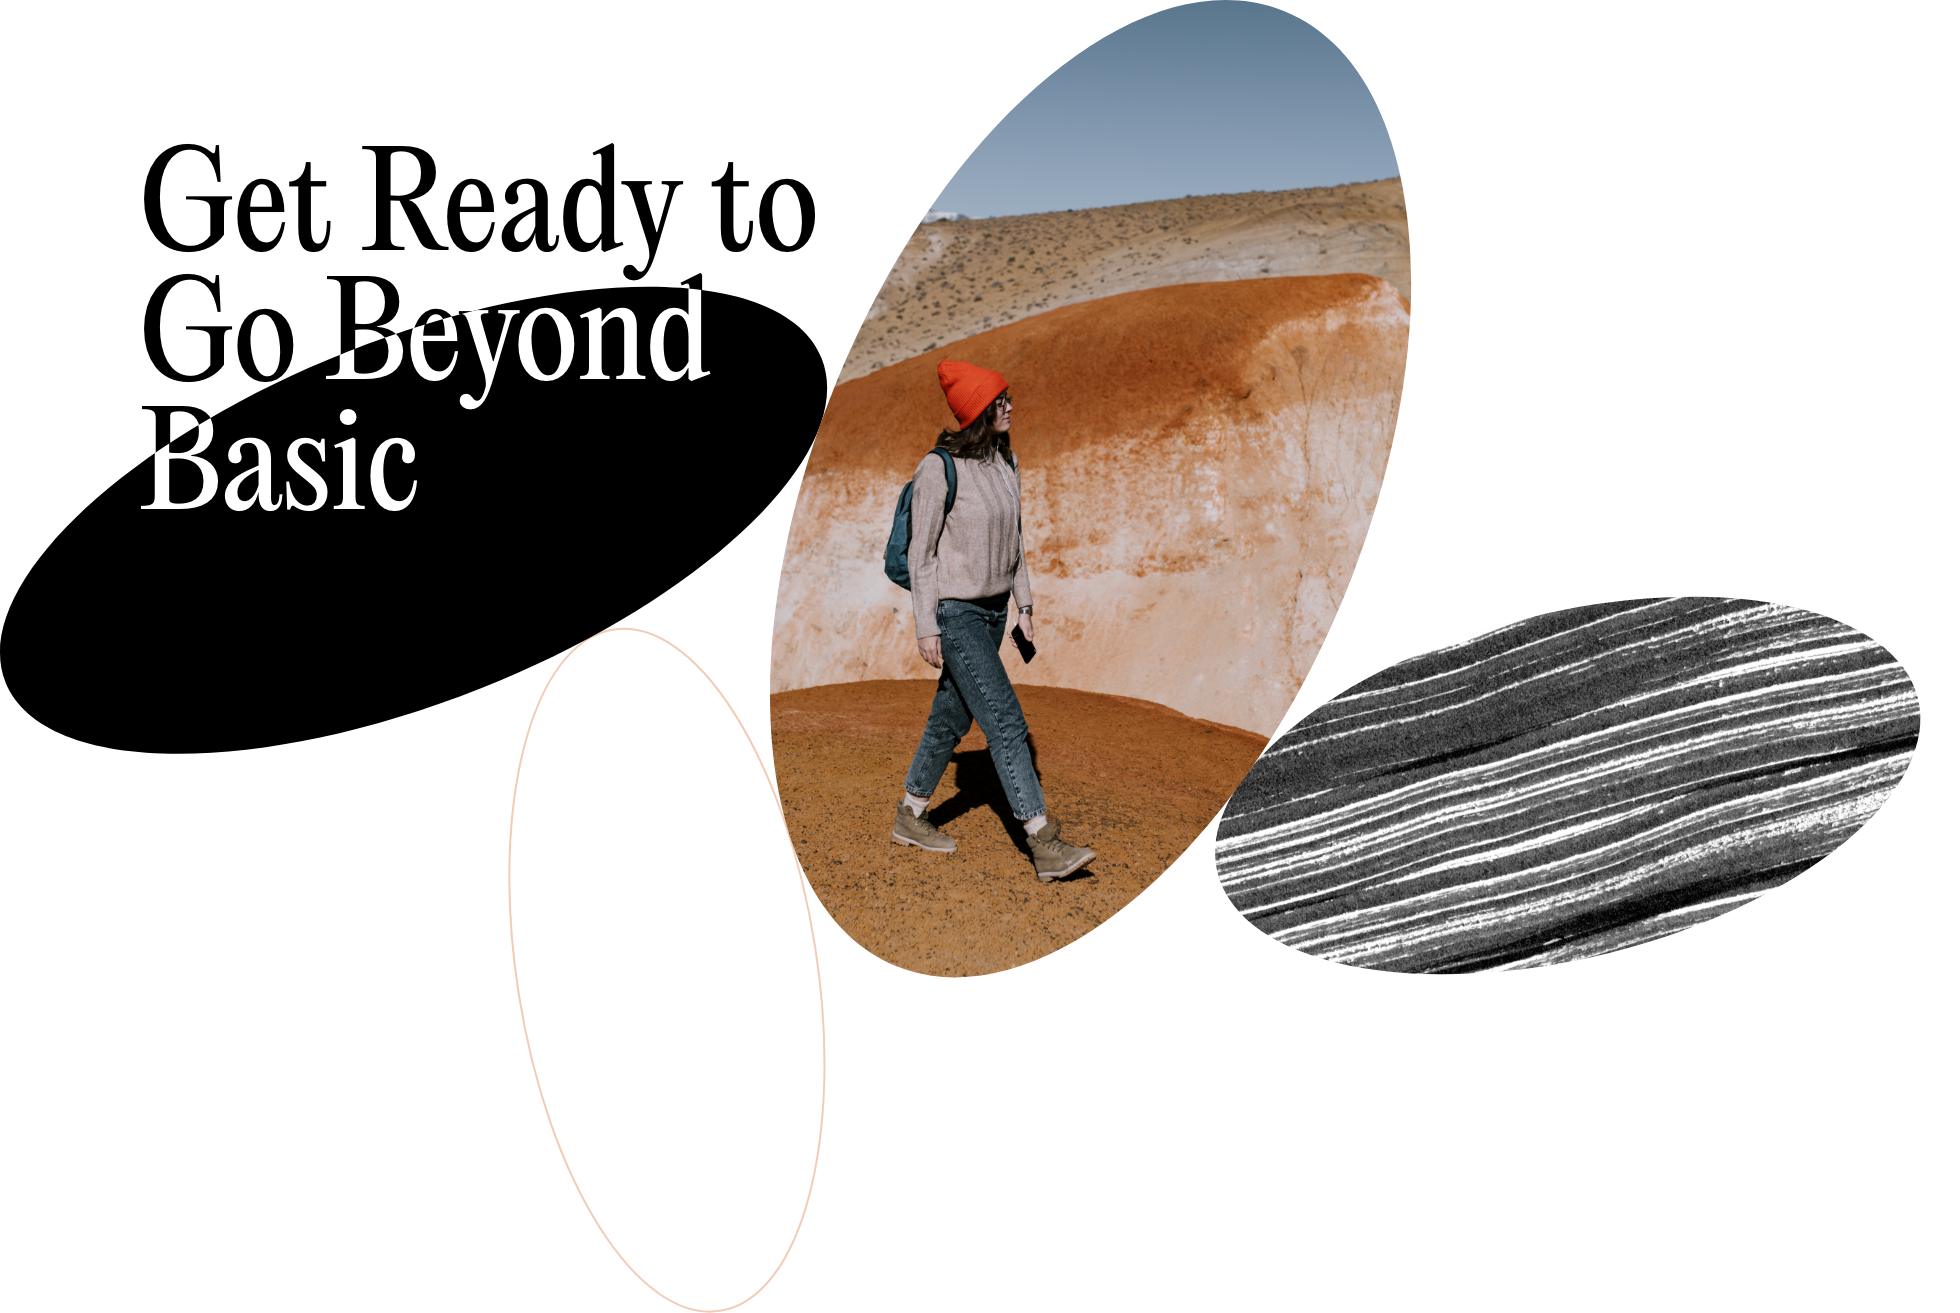
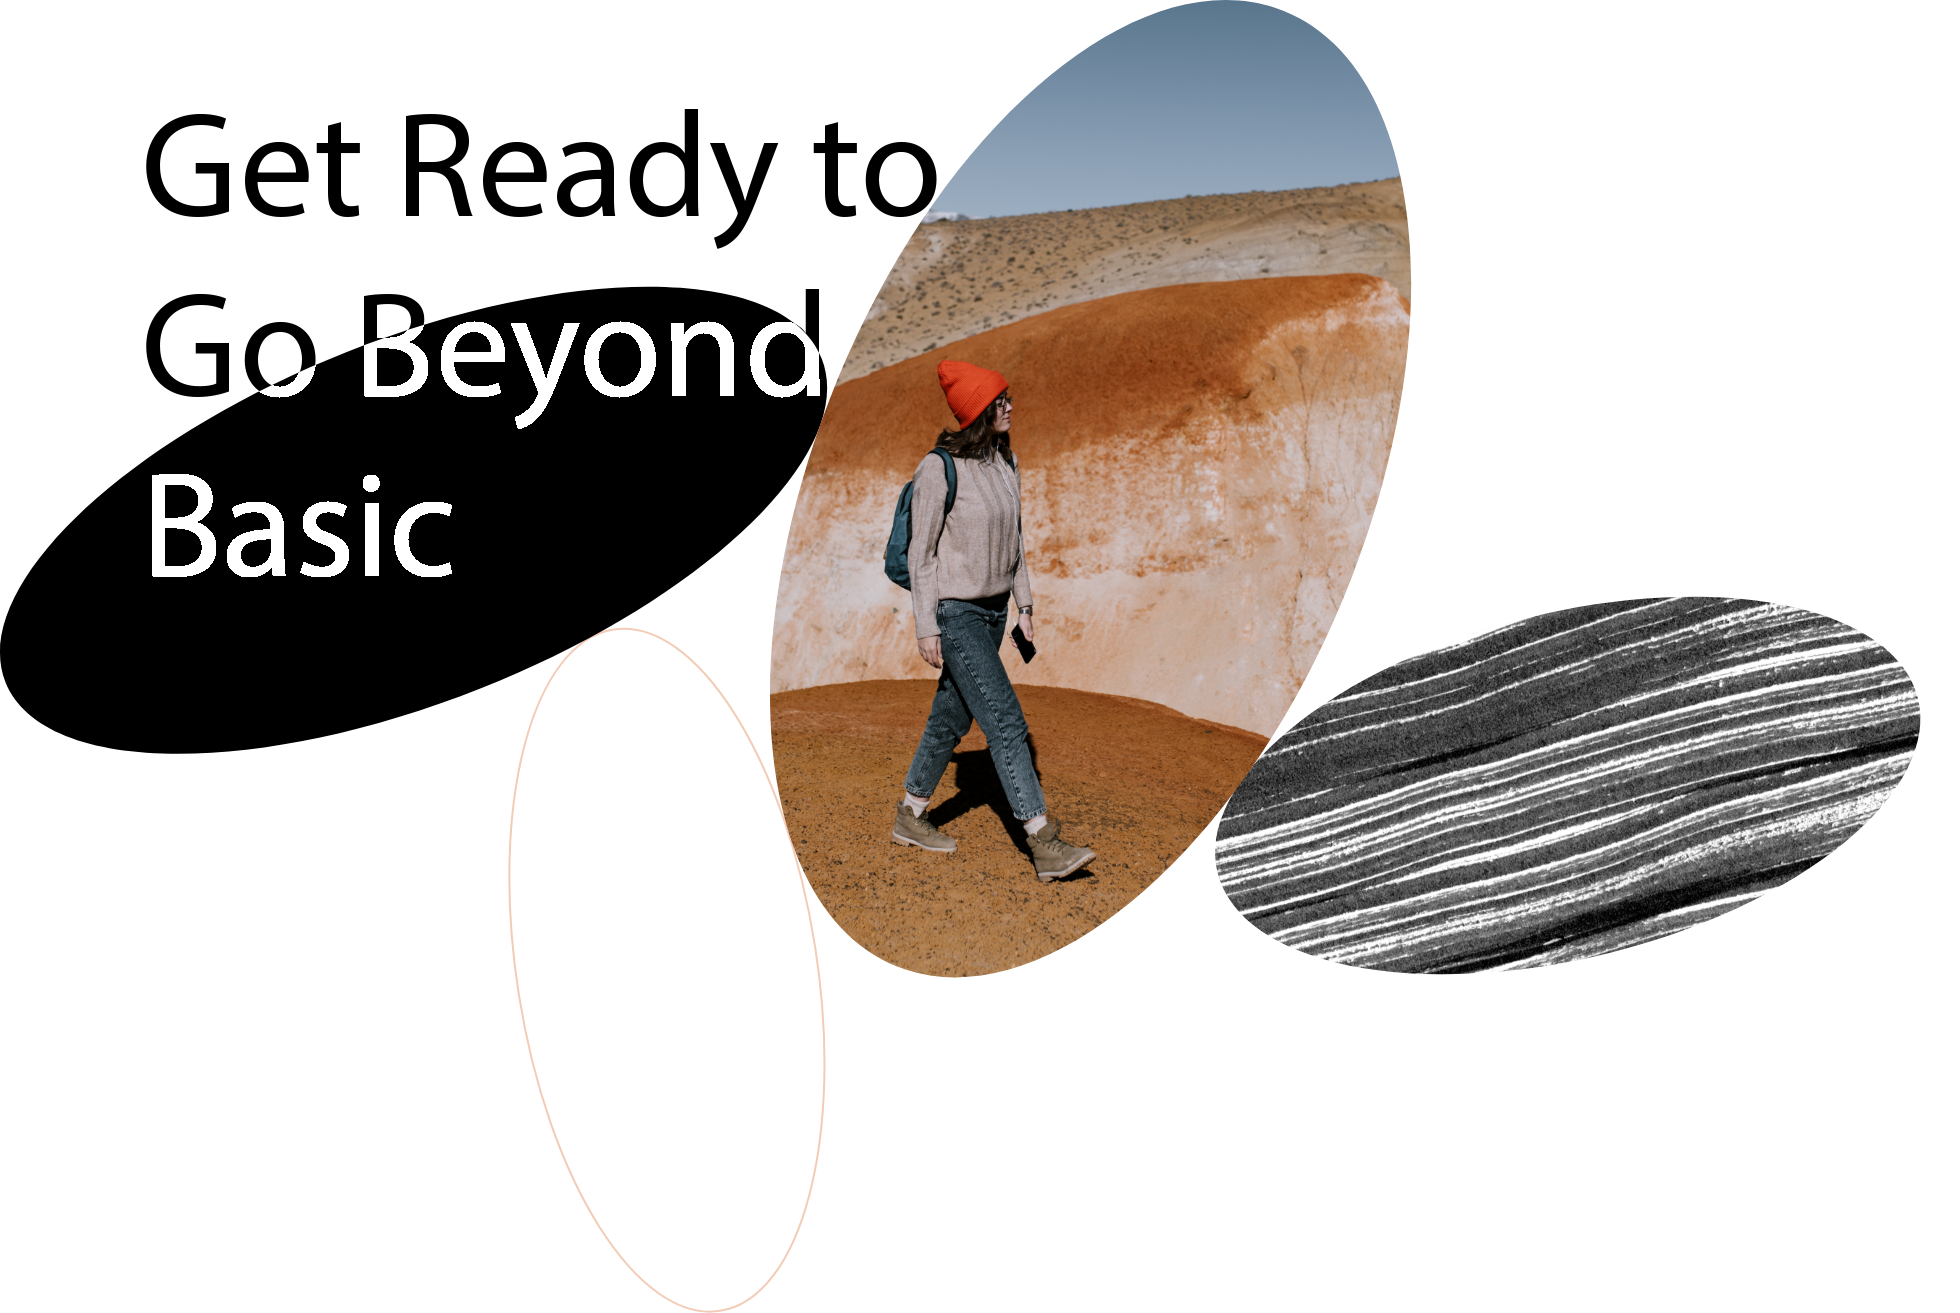
benefit-page

Changed region(s): [[0.0622, 0.0625, 0.498, 0.4372]]

diff --git a/resources/views/pages/benefits.blade.php b/resources/views/pages/benefits.blade.php
@@ -11,27 +11,30 @@ name('benefits');
 <x-layouts.app>
     <section class="">
         <div class="px-[min(6.99vw,50px)] py-8 max-w-[1920px] mx-auto">
-            <div class="relative hidden h-screen lg:flex">
-                <div class="absolute top-[-5rem] h-screen -z-10">
+            <div class="relative hidden lg:flex">
+                <div class="absolute top-[-5rem] -z-10">
                     <img class="" src="{{ getMediaPath('assets/benefits-hero-image.png') }}" />
                 </div>
                 <div class="grid grid-cols-4">
                     <div></div>
                     <div></div>
                     <div></div>
-                    <div class="space-y-6 lg:mt-8 lg:text-xs xl:text-base">
-                        <p class="">
+                    <div class="space-y-6 lg:mt-8 text-base lg:text-base  xl:text-lg">
+                        <p>
                             Real benefits for real people start with Panda. We’re here to help you thrive in ways that matter to you, so you can give more and get more when it’s go time—in life and work.
                         </p>
                         <p>
                             Explore the benefits your employer is providing through Panda People.
                         </p>
-                        <x-link class="hover:bg-panda-green hover:border-transparent" outlined :href="route('dashboard', ['activeTab' => 1])">View My Benefits</x-link>
+                        <x-link class="hover:border-transparent hover:bg-panda-green" outlined :href="route('dashboard', ['activeTab' => 1])">View My Benefits</x-link>
                     </div>
                 </div>
             </div>
             <div class="grid grid-cols-1 gap-6 lg:hidden lg:grid-cols-2" x-data="{ shown: false }" x-intersect.once="shown = true">
-                <h1 x-show="shown" x-transition.duration.1500 class="max-w-xl text-3xl sm:text-6xl font-editorial">Get Ready to go beyond the basic</h1>
+                <h1 x-show="shown" x-transition.duration.1500 class="max-w-xl text-4xl md:text-4xl lg:text-5xl xl:text-6xl 2xl:text-8xl">Get Ready to Go</h1>
+                <div class="w-[calc(100%+2*min(6.99vw,50px))] mx-auto ml-auto ml-[max(-6.99vw,-50px)] -mt-12 z-[-1] overflow-x-hidden -mb-20">
+                    <img class="lg:hidden min-w-[125vw] -ml-12 lg:-ml-72 2xl:-ml-[42rem]" src="{{ getMediaPath('assets/benefit-circles.png') }}" alt="Collages images" />
+                </div>
                 <div class="space-y-6 lg:ml-56 xl:ml-80">
                     <p class="text-sm">
                         Real benefits for real people start with Panda. We’re here to help you thrive in ways that matters to you, so you can give more and get more when it’s go time—in life and work.
@@ -43,17 +46,20 @@ name('benefits');
                 </div>
             </div>
         </div>
-        <img class="lg:hidden min-w-[125vw] -ml-20 lg:-ml-72 2xl:-ml-[42rem] -mt-8 md:-mt-16 lg:-mt-96" src="{{ getMediaPath('assets/benefit-circles.png') }}" alt="Collages images" />
+        
     </section>
-    <section class="px-[min(6.99vw,50px)] py-8 md:-mt-40 lg:mt-0">
+    <section class="px-[min(6.99vw,50px)] py-8 2xl:mt-[40rem] xl:mt-64 lg:mt-48">
         <div class="max-w-[1920px] mx-auto">
             <div class="grid grid-cols-1 gap-6 lg:grid-cols-2">
                 <div x-data="{ shown: false }" x-intersect.once="shown = true">
-                    <h2 x-show="shown" x-transition.duration.2000 class="max-w-xl text-6xl lg:text-7xl xl:text-8xl font-editorial">
+                    <h2 x-show="shown" x-transition.duration.2000 class="hidden lg:block max-w-xl text-4xl md:text-4xl lg:text-5xl xl:text-6xl 2xl:text-[5.5rem]">
                         Benefits for Life Essentials
                     </h2>
-                    <div class="space-y-6 lg:max-w-sm lg:mt-6">
-                        <p class="text-xl">
+                    <h2 x-show="shown" x-transition.duration.2000 class="lg:hidden max-w-xl text-4xl md:text-4xl lg:text-5xl xl:text-6xl 2xl:text-7xl mb-6">
+                        Benefits for
+                    </h2>
+                    <div class="space-y-6 lg:max-w-sm lg:mt-6 text-base lg:text-base  xl:text-lg">
+                        <p class="">
                             At Panda People, we believe in providing you with the types of benefits that enhance life and make work more rewarding.
                         </p>
                         <p>
@@ -89,27 +95,34 @@ name('benefits');
             </div>
         </div>
     </section>
-    <section class="bg-panda-green">
-        <div class="px-[min(6.99vw,50px)] py-8">
-            <div class="max-w-[1920px] mx-auto">
-                <h2 x-show="shown" x-transition.duration.2000 class="text-2xl md:text-5xl lg:text-6xl xl:text-7xl 2xl:text-9xl md:col-span-2 font-editorial">
+    <section class="relative">
+        <div class="absolute w-[100%] bg-panda-green h-[100%]"></div>
+        <img class="absolute top-[-200px] hidden lg:block lg:min-w-[50vw] 2xl:mx-auto object-cover w-[200px]" src="{{ getMediaPath('assets/benefit-circles-2-black-circle.png') }}"/>
+        <div class="absolute w-[100%] bg-panda-green h-[100%] overflow-hidden">
+            <img class="absolute top-[-200px] hidden lg:block lg:min-w-[50vw] 2xl:mx-auto object-cover w-[200px]" src="{{ getMediaPath('assets/benefit-circles-2-image.png') }}"/>
+        </div>
+        
+        <div class="px-[min(6.99vw,50px)] py-8 relative pt-16">            
+            <div class="mx-auto max-w-[1920px]">
+                <h2 x-show="shown" x-transition.duration.2000 class="hidden lg:block text-4xl md:text-4xl lg:text-5xl xl:text-6xl 2xl:text-[5.5rem] md:col-span-2">
                     …and Purchases Essential to Life
+                </h2>
+                <h2 x-show="shown" x-transition.duration.2000 class="lg:hidden text-4xl md:text-4xl lg:text-5xl xl:text-6xl 2xl:text-7xl md:col-span-2 mb-6">
+                    …and Purchases
                 </h2>
             </div>
         </div>
-        <div class="grid grid-cols-1 gap-6 lg:grid-cols-2">
-            <div>
-                <img class="lg:hidden -mt-16 sm:max-h-[70vh] mx-auto" src="{{ getMediaPath('assets/benefit-circles-mobile.png') }}" />
-                <img class="hidden lg:block -mt-40 md:-mt-56 lg:min-w-[50vw] lg:-mt-72 xl:-mt-80 2xl:max-h-[70vh] 2xl:mx-auto object-cover" src="{{ getMediaPath('assets/benefit-circles-2.png') }}" />
-            </div>
-            <div x-data="{ shown: false }" x-intersect.once="shown = true" class="p-8 -mt-20 space-y-6 xl:space-y-12 place-self-center lg:-mt-28 xl:-mt-16">
-                <h2 x-show="shown" x-transition.duration.2000 class="text-3xl xl:text-5xl 2xl:text-6xl font-editorial">
-                    We’re here to help you afford everyday essentials and more of what brings you joy
+        <img class="relative w-[70%] lg:hidden -mt-16 sm:max-h-[70vh] mx-auto" src="{{ getMediaPath('assets/benefit-circles-mobile.png') }}" />
+        <div class="grid grid-cols-1 gap-6 lg:grid-cols-2 relative pb-16">
+            <div></div>
+            <div x-data="{ shown: false }" x-intersect.once="shown = true" class="p-8 space-y-6 xl:space-y-12 place-self-center xl:-mt-0">
+                <h2 x-show="shown" x-transition.duration.2000 class="text-3xl xl:text-4xl 2xl:text-5xl">
+                We're here to help you pay for everyday essentials and afford more of what brings you joy
                 </h2>
                 <h5 class="text-xl">
                     Find everyday deals on:
                 </h5>
-                <ul class="grid grid-cols-2 md:max-w-xs">
+                <ul class="md:max-w-xs grid grid-cols-2">
                     @foreach ($categories as $category)
                         <li>
                             <x-a :href="route('deals.index', ['filter' => ['category_id' => $category->getKey()]])">{{ $category->name }}</x-a>
